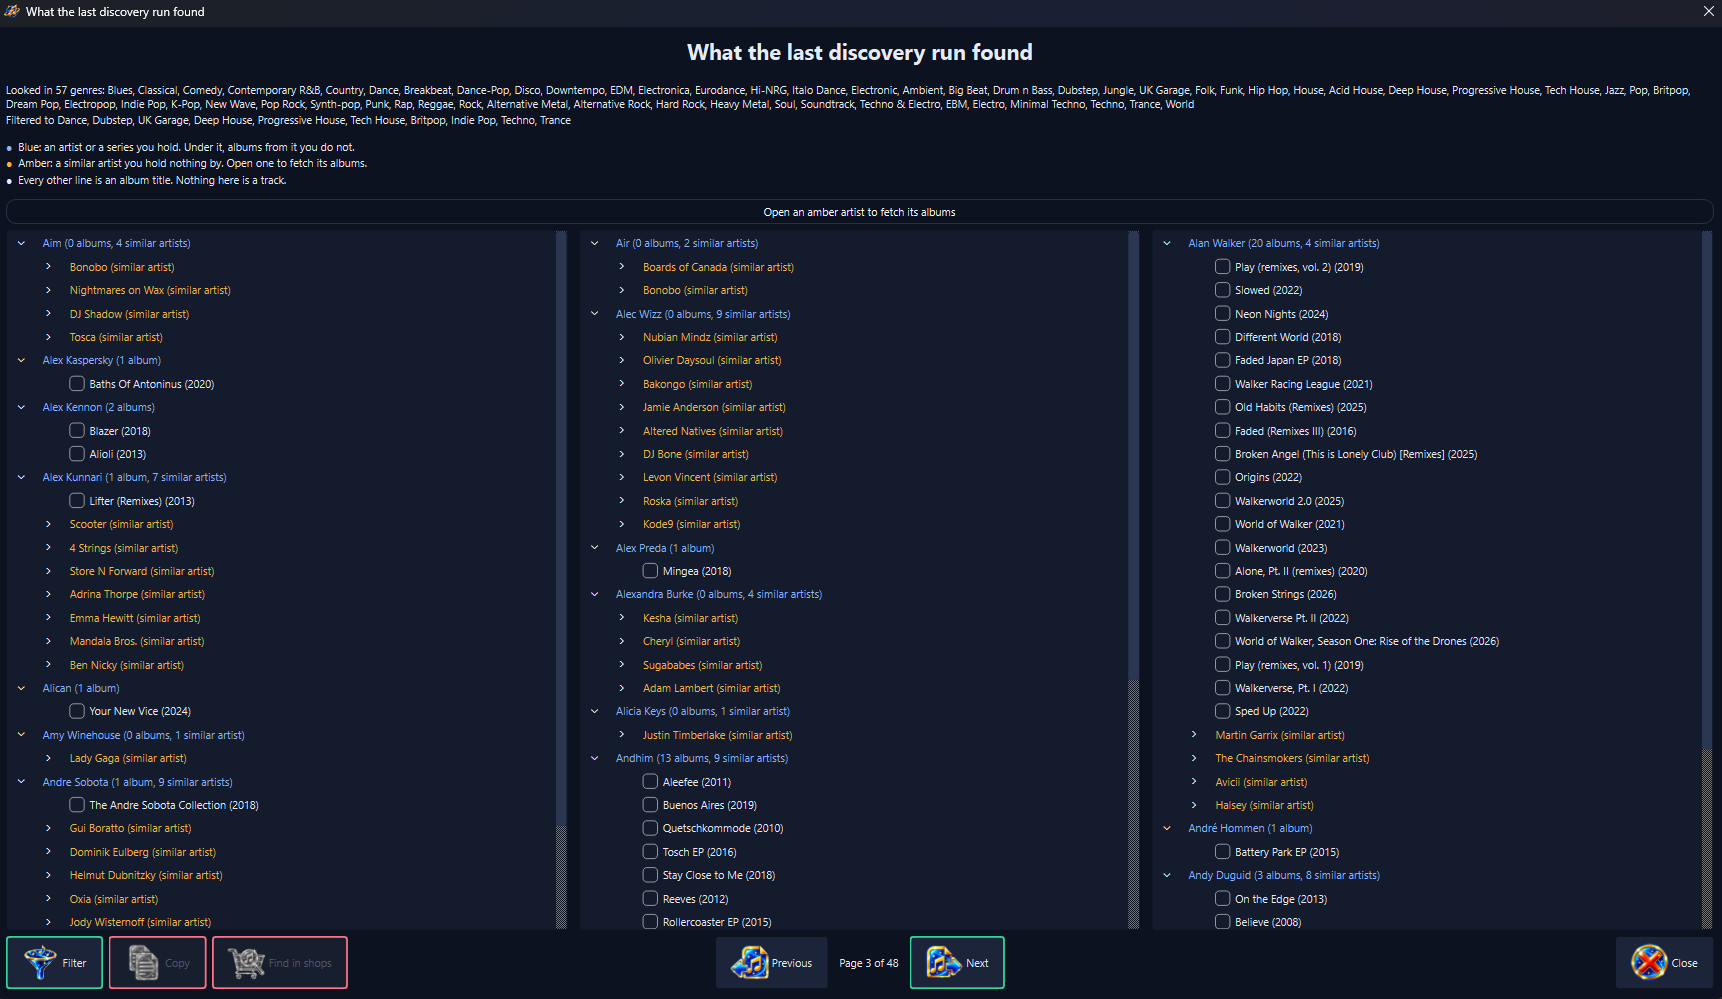
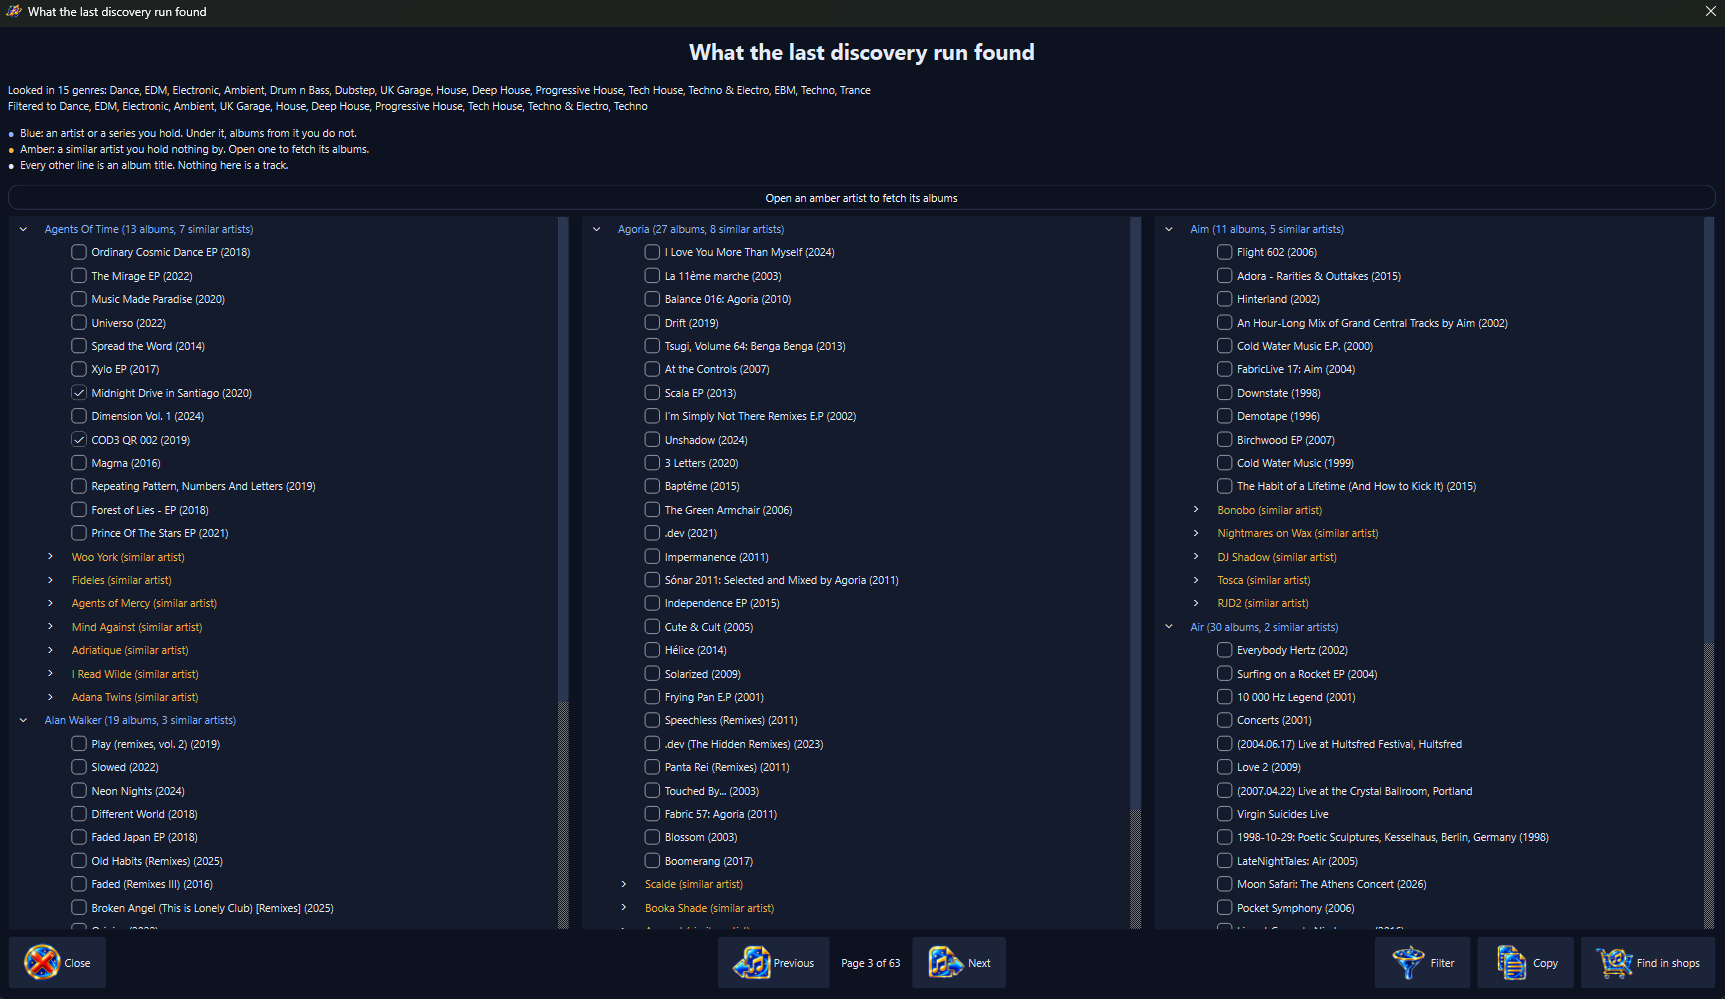
Show the way out on the left in the site's screenshots
Retaken Discover, results and shop screenshots, with alt text describing each as it now stands and sizes matching the new images.

diff --git a/docs/discovery.html b/docs/discovery.html
@@ -68,7 +68,7 @@
     else sounds like them.
   </p>
   <div class="shot" style="margin-top:2.5rem;">
-    <img src="screenshots/discovered.png" width="1722" height="999" alt="The What the last discovery run found window, opened across a wide screen. A line at the top says the search looked in 57 genres and lists them; the next says the answer is filtered to Dance, Dubstep, UK Garage, Deep House, Progressive House, Tech House, Britpop, Indie Pop, Techno and Trance. Under it a key names the three kinds of row: an artist or a series you hold, drawn in blue, with albums from it you do not hold underneath; a similar artist you hold nothing by, drawn in amber, which fetches its albums when opened; every other line, which is an album title. A strip reads Open an amber artist to fetch its albums. The answer is dealt into three columns, among them Aim with 4 similar artists listed in amber beneath it; Alex Kunnari with 1 album and 7 similar artists; Alan Walker with 20 albums and 4 similar artists. Every album has a tick box with the year it first came out beside its title. Nothing is ticked, so Copy and Find in shops are outlined in red and shut off. One row runs under the columns: Filter, Copy and Find in shops at the left, then Previous and Next with the words Page 3 of 48 between them, Next ringed in green, then Close at the right.">
+    <img src="screenshots/discovered.png" width="1725" height="999" alt="The What the last discovery run found window, opened across a wide screen. A line at the top says the search looked in 15 genres and lists them; the next says the answer is filtered to Dance, EDM, Electronic, Ambient, UK Garage, House, Deep House, Progressive House, Tech House, Techno &amp; Electro and Techno. Under it a key names the three kinds of row: an artist or a series you hold, drawn in blue, with albums from it you do not hold underneath; a similar artist you hold nothing by, drawn in amber, which fetches its albums when opened; every other line, which is an album title. A strip reads Open an amber artist to fetch its albums. The answer is dealt into three columns: Agents Of Time with 13 albums and 7 similar artists, then Alan Walker with 19 albums and 3 similar artists; Agoria with 27 albums and 8 similar artists; Aim with 11 albums and 5 similar artists, then Air with 30 albums and 2 similar artists. Similar artists such as Woo York, Bonobo and Booka Shade are listed in amber. Every album has a tick box with the year it first came out beside its title; two of Agents Of Time's albums are ticked. One row runs under the columns: Close at the left; Previous and Next with the words Page 3 of 63 between them in the middle; Filter, Copy and Find in shops at the right.">
   </div>
   <p class="shot-caption">What the search found, turned a page at a time. Blue is an artist or a series you hold; amber is an artist you do not. Every line says which it is in words. Each album carries the year it first came out.</p>
 
@@ -256,12 +256,12 @@
   </div>
 
   <div class="shot" style="margin-top:2.5rem;">
-    <img src="screenshots/discover.png" width="624" height="931" alt="The Discover new music window: the same genre catalogue the filter uses, in three columns of tick boxes. Every genre that has styles carries an arrow beside it that folds them away. Dance, Electronic, House and Techno &amp; Electro are open, with their styles indented beneath them; Pop and Rock are folded. A selection of dance and electronic music is ticked: EDM under Dance; Ambient, Drum n Bass, Dubstep and UK Garage under Electronic; Deep House, Progressive House and Tech House under House; EBM, Techno and Trance under Techno &amp; Electro. Beneath the genres, under Include, three boxes are ticked: Artists on compilations (Various Artists), Other volumes of series and DJ mixes. A line beneath them says 5 series on compilations in these genres have not been looked up yet, under a minute more at the pace MusicBrainz allows, longer when it is busy. Below that, the Released from and to year fields, both reading any year. A last line says to tick the genres then press Find; the window closes and the toolbar reports on the search. Select all sits at the bottom left with Taste profiles beside it, ringed in green; Close and Find sit at the bottom right.">
+    <img src="screenshots/discover.png" width="624" height="933" alt="The Discover new music window: the same genre catalogue the filter uses, in three columns of tick boxes. Every genre that has styles carries an arrow beside it that folds them away. Dance, Electronic, House and Techno &amp; Electro are open, with their styles indented beneath them; Pop and Rock are folded. A selection of dance and electronic music is ticked: EDM under Dance; Ambient, Drum n Bass, Dubstep and UK Garage under Electronic; Deep House, Progressive House and Tech House under House; EBM, Techno and Trance under Techno &amp; Electro. Beneath the genres, under Include, three boxes are ticked: Artists on compilations (Various Artists), Other volumes of series and DJ mixes. A line beneath them says 5 series on compilations in these genres have not been looked up yet, under a minute more at the pace MusicBrainz allows, longer when it is busy. Below that, the Released from and to year fields, both reading any year. A last line says to tick the genres then press Find; the window closes and the toolbar reports on the search. Close sits alone at the bottom left; Select all, Taste profiles (ringed in green) and Find sit at the bottom right.">
   </div>
   <p class="shot-caption">Tick what to look in; add years to be offered music from those alone. Taste profiles puts back a selection you kept. Find closes this window; the search then reports from the toolbar.</p>
 
   <div class="shot" style="margin-top:2.5rem;">
-    <img src="screenshots/findinshop.png" width="622" height="675" alt="The Find these in a shop window, saying three albums are ticked and that choosing a shop leaves this window open. Eight shops are listed one to a row, each with a note saying what it stocks: 7digital, Qobuz, Bandcamp, Boomkat, Bleep, Presto Music, ProStudioMasters and Beatport. Each row has a grip at its left for dragging it up or down, with an edit button and a delete button at its right. Add a shop and Put the original shops back sit at the left of the foot, Close at the right.">
+    <img src="screenshots/findinshop.png" width="619" height="670" alt="The Find these in a shop window, saying 2 albums are ticked and that choosing a shop leaves this window open. Eight shops are listed one to a row, each with a note saying what it stocks: 7digital, Boomkat, Qobuz, Bandcamp, Bleep, Presto Music, ProStudioMasters and Beatport. Each row has a grip at its left for dragging it up or down, with an edit button and a delete button at its right. Close sits alone at the bottom left, ringed in green; Add a shop and Put the original shops back sit at the bottom right.">
   </div>
   <p class="shot-caption">Choosing a shop opens that shop's own search for each ticked album. The window stays open so prices can be compared; the list itself is yours to change.</p>
 </section>

diff --git a/docs/index.html b/docs/index.html
@@ -189,7 +189,7 @@
   </div>
 
   <div class="shot" style="margin-top:2.5rem;">
-    <img src="screenshots/discovered.png" width="1722" height="999" alt="The What the last discovery run found window, opened across a wide screen. A line at the top says the search looked in 57 genres and lists them; the next says the answer is filtered to Dance, Dubstep, UK Garage, Deep House, Progressive House, Tech House, Britpop, Indie Pop, Techno and Trance. Under it a key names the three kinds of row: an artist or a series you hold, drawn in blue, with albums from it you do not hold underneath; a similar artist you hold nothing by, drawn in amber, which fetches its albums when opened; every other line, which is an album title. A strip reads Open an amber artist to fetch its albums. The answer is dealt into three columns, among them Aim with 4 similar artists listed in amber beneath it; Alex Kunnari with 1 album and 7 similar artists; Alan Walker with 20 albums and 4 similar artists. Every album has a tick box with the year it first came out beside its title. Nothing is ticked, so Copy and Find in shops are outlined in red and shut off. One row runs under the columns: Filter, Copy and Find in shops at the left, then Previous and Next with the words Page 3 of 48 between them, Next ringed in green, then Close at the right.">
+    <img src="screenshots/discovered.png" width="1725" height="999" alt="The What the last discovery run found window, opened across a wide screen. A line at the top says the search looked in 15 genres and lists them; the next says the answer is filtered to Dance, EDM, Electronic, Ambient, UK Garage, House, Deep House, Progressive House, Tech House, Techno &amp; Electro and Techno. Under it a key names the three kinds of row: an artist or a series you hold, drawn in blue, with albums from it you do not hold underneath; a similar artist you hold nothing by, drawn in amber, which fetches its albums when opened; every other line, which is an album title. A strip reads Open an amber artist to fetch its albums. The answer is dealt into three columns: Agents Of Time with 13 albums and 7 similar artists, then Alan Walker with 19 albums and 3 similar artists; Agoria with 27 albums and 8 similar artists; Aim with 11 albums and 5 similar artists, then Air with 30 albums and 2 similar artists. Similar artists such as Woo York, Bonobo and Booka Shade are listed in amber. Every album has a tick box with the year it first came out beside its title; two of Agents Of Time's albums are ticked. One row runs under the columns: Close at the left; Previous and Next with the words Page 3 of 63 between them in the middle; Filter, Copy and Find in shops at the right.">
   </div>
   <p class="shot-caption">What one search found, turned a page at a time. Blue is an artist or a series you hold; amber is an artist you do not. Every line says which it is in words. Each album carries the year it first came out.</p>
 
